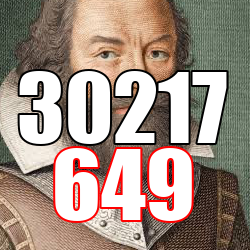
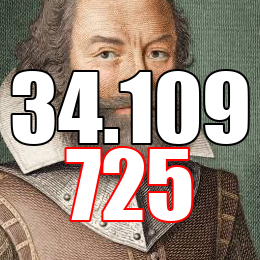
Added dependencies
Added depedencies and updated to lastest data

diff --git a/update_profile_img.py b/update_profile_img.py
@@ -1,13 +1,15 @@
 from PIL import Image, ImageFont, ImageDraw
 import locale
+import re
 import covid_check
 
 #load the daily data from web scrapper
 data = covid_check.daily_data()
 
 #Confirmed Cases and Deaths are written on top of my profile image
-text1 = data['conf_total']
-text2 = data['deaths_total']
+#1000s seperated by "."
+text1 = re.sub(r'(?<!^)(?=(\d{3})+$)', r'.',data['conf_total'])
+text2 = re.sub(r'(?<!^)(?=(\d{3})+$)', r'.',data['deaths_total'])
 
 fontsize = 90
 fillcolor1 = "white"
@@ -17,7 +19,7 @@ shadowcolor2 = "red"
 font = ImageFont.truetype("Impact.ttf", fontsize)
 img = Image.open("profile_img.png")
 
-#width, height = img.size
+width, height = img.size
 #print(width, height)
 
 draw = ImageDraw.Draw(img)
@@ -28,7 +30,7 @@ draw = ImageDraw.Draw(img)
 (a,b,fwidth2,fheight2) = font.getmask(text2).getbbox()
 
 #find the initial coordinated by opening the image in GIMP and record.
-x = 150
+x = 143
 y = 160
 
 #now, second line is center aligned wrt width and 4 pixel under the first.
@@ -42,7 +44,7 @@ draw.text((x2, y2), text2, font=font, fill=fillcolor2, stroke_fill=shadowcolor2,
 #prepare for cropping
 left = 135
 top = 110
-w = 250
+w = 260
 
 img_cropped = img.crop((left, top, left+w, top+w))
 
